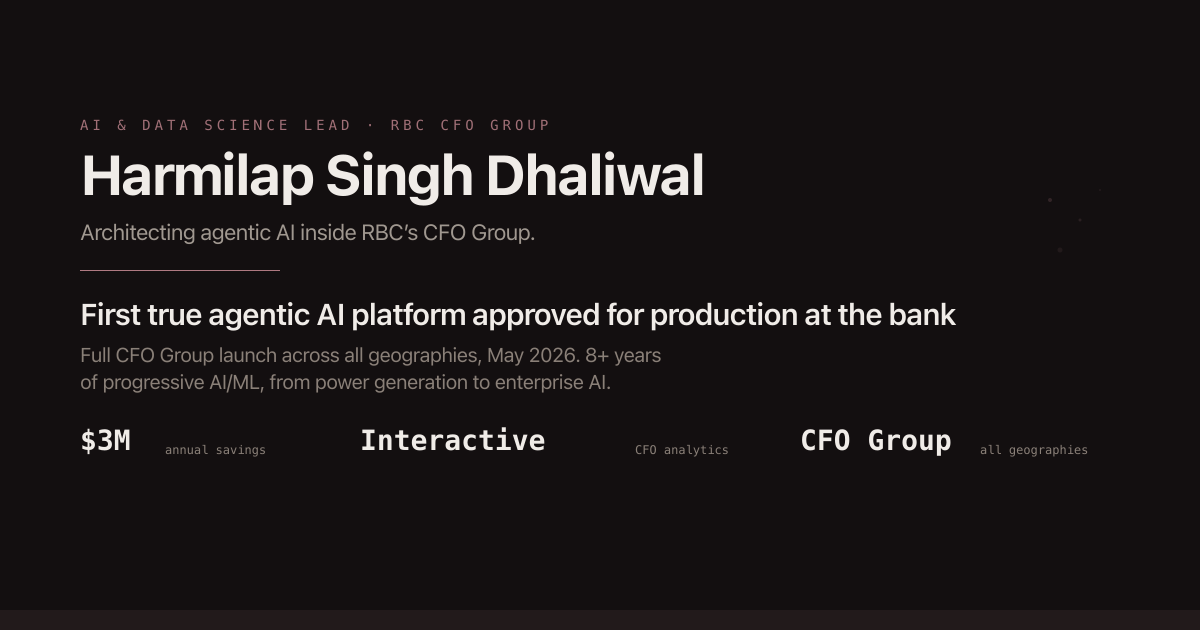
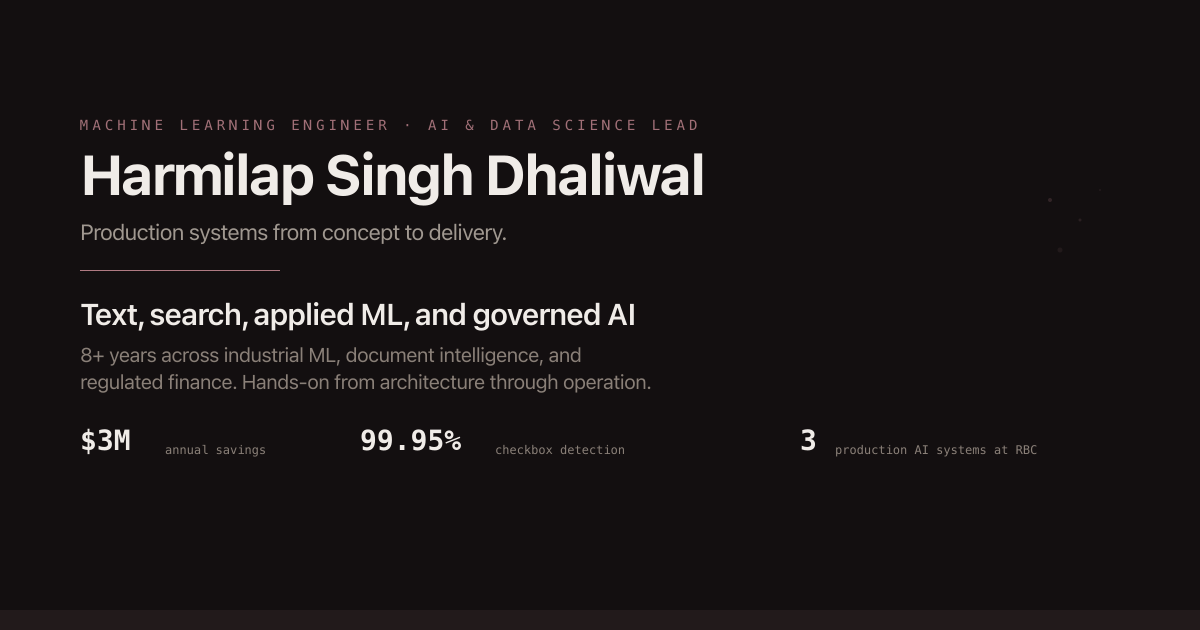
refactor(meta): reconcile metadata and machine-readable surfaces
Centralizes site identity in data/site.ts and reconciles sitemap,
manifest, feed, capabilities, llms.txt, and the social preview against
it.

diff --git a/app/capabilities.json/route.ts b/app/capabilities.json/route.ts
@@ -1,11 +1,16 @@
 import { PROJECTS } from '@/data/projects';
 import { CASE_STUDIES } from '@/data/projectCaseStudies';
+import {
+  PRODUCTION_SYSTEMS_COUNT,
+  PUBLIC_AS_OF_DATE,
+  YEARS_EXPERIENCE,
+} from '@/data/canonical';
+import { isPostSlugPublic } from '@/data/posts';
+import { PERSON_NAME, SITE_DESCRIPTION, SITE_URL } from '@/data/site';
 
 // Machine-readable capabilities manifest generated from the same typed data
 // as the human-facing case studies. Linked from public/llms.txt and <head>.
 export const dynamic = 'force-static';
-
-const SITE_URL = 'https://rogerthatroach.github.io';
 
 export function GET(): Response {
   const projects = PROJECTS.map((p) => {
@@ -17,40 +22,46 @@ export function GET(): Response {
       role: p.role,
       era: cs?.era,
       timeline: cs?.timeline,
-      status: cs?.status ?? 'shipped',
+      status: cs?.status ?? 'not-specified',
       stack: p.stack,
       metric: { value: p.heroMetric.value, label: p.heroMetric.label },
-      // problem/decision/impact come from the case study's TL;DR when present
-      // (one honest sentence each); otherwise the project caption stands in.
-      problem: cs?.tldr?.problem,
-      decision: cs?.tldr?.decision,
-      impact: cs?.tldr?.impact ?? p.caption,
+      problem: cs?.narrative.problem,
+      contribution: cs?.narrative.contribution,
+      decision: cs?.narrative.decision?.selectedApproach,
+      outcomeAndState: cs?.narrative.outcomeAndState ?? p.caption,
+      limits: cs?.narrative.limits,
       url: `${SITE_URL}/projects/${p.id}`,
-      deepDive: cs?.blogPostSlug ? `${SITE_URL}/blog/${cs.blogPostSlug}` : undefined,
+      deepDive: isPostSlugPublic(cs?.blogPostSlug)
+        ? `${SITE_URL}/blog/${cs?.blogPostSlug}`
+        : undefined,
     };
   });
 
-  // Current implementation taxonomy, kept alongside the project data so the
-  // manifest does not imply techniques that the production systems did not use.
   const approachTaxonomy = {
     modeling:
-      'TCS digital-twin work was regression (84 models); Humana was classification; FinancialBenchmarking is NL→SQL extraction + ranking; WorkforceAnalytics / AI/LLM Drafting Platform / BRIEFING_PROTOTYPE are LLM pipelines; Commodity Tax was process automation. Task type is matched to the problem, not assumed.',
+      'Combustion Tuning used 84 regression models and bounded optimization. Document Intelligence used OCR, computer vision, and a Random Forest for checkbox detection. Financial peer benchmarking uses a guarded text-to-SQL path. Commodity Tax is deterministic process automation. The AI/LLM workforce analytics and drafting platforms use models only inside declared workflow boundaries.',
     retrieval:
-      'AI/LLM Drafting Platform uses LLM-assisted routing to select a scoped field group, followed by dense semantic retrieval within that scope. WorkforceAnalytics uses model-assisted intent routing around a deterministic compute path. Neither production path is presented as BM25, sparse, hybrid, or RRF.',
-    fineTuning:
-      'In regulated-finance production the work is consuming foundation-model API endpoints; fine-tuning was out of scope by policy, not framed as a deliberate technical choice.',
+      'The AI/LLM drafting platform routes requests to a configured field group before dense semantic retrieval within that scope. The AI/LLM workforce analytics platform uses model-assisted intent routing around code-owned entitlement, data access, and calculation. No shipped sparse, hybrid, or reciprocal-rank-fusion path is claimed.',
+    modelAdaptation:
+      'The regulated-finance systems consume approved foundation-model endpoints. No fine-tuning work is claimed.',
     evaluation:
-      'RAG/LLM evaluation combines LLM-as-judge with extensive human testing, feeding evidence into Model Risk review. The systems use bespoke logging and monitoring rather than third-party evaluation libraries.',
-    dataBoundary:
-      'In WorkforceAnalytics, scoped model stages handle gate, metadata extraction, answer shaping, and synthesis; a separate deterministic path owns entitlement resolution, data access, and calculation. Typed contracts, access controls, validation, logging, tests, and monitoring constrain the boundary; configuration and integration errors remain residual risks.',
+      'Model-assisted systems use LLM-as-judge alongside extensive human testing, with evidence prepared for Model Risk review. Bespoke tracing and logging support investigation; scores do not replace accountable review.',
+    responsibilityBoundaries:
+      'Model-mediated interpretation and drafting are separated from deterministic calculation, authorization, reviewed query construction, and human action. The exact boundary differs by system and remains subject to configuration, testing, monitoring, and review.',
   };
 
   const manifest = {
-    name: 'Harmilap Singh Dhaliwal',
-    title: 'AI/ML Engineering Lead — production AI in regulated finance',
+    name: PERSON_NAME,
+    title: 'Machine learning engineer and AI/data science lead',
     url: SITE_URL,
-    summary:
-      '8+ years in AI/ML — industrial digital twins → cloud document intelligence → financial NL→SQL and agentic AI in regulated finance. Three production AI systems at a major Canadian bank; approximately 1.5 years focused on agentic and LLM systems.',
+    summary: SITE_DESCRIPTION,
+    experience: {
+      asOf: PUBLIC_AS_OF_DATE,
+      aiAndMachineLearning: `${YEARS_EXPERIENCE} years`,
+      regulatedFinanceProductionAi: '~4 years',
+      agenticAndLlmSystems: '18 months',
+      productionAiSystemsAtRbc: PRODUCTION_SYSTEMS_COUNT,
+    },
     projects,
     approachTaxonomy,
     links: {

diff --git a/app/sitemap.ts b/app/sitemap.ts
@@ -1,12 +1,10 @@
 import type { MetadataRoute } from 'next';
 import { PROJECTS } from '@/data/projects';
 import { POSTS, isPostPublic } from '@/data/posts';
-import { PAPERS, isPaperPublic } from '@/data/papers';
+import { SITE_URL } from '@/data/site';
 
 // Next 16 requires force-static on metadata routes under output:'export'.
 export const dynamic = 'force-static';
-
-const SITE_URL = 'https://rogerthatroach.github.io';
 
 export default function sitemap(): MetadataRoute.Sitemap {
   const staticRoutes: MetadataRoute.Sitemap = [
@@ -18,15 +16,7 @@ export default function sitemap(): MetadataRoute.Sitemap {
     { url: `${SITE_URL}/resume`, changeFrequency: 'monthly', priority: 0.9 },
     { url: `${SITE_URL}/now`, changeFrequency: 'monthly', priority: 0.4 },
     { url: `${SITE_URL}/colophon`, changeFrequency: 'yearly', priority: 0.3 },
-    { url: `${SITE_URL}/papers`, changeFrequency: 'monthly', priority: 0.7 },
   ];
-
-  const paperRoutes: MetadataRoute.Sitemap = PAPERS.filter(isPaperPublic).map((p) => ({
-    url: `${SITE_URL}/papers/${p.slug}`,
-    lastModified: p.publishedAt ? new Date(p.publishedAt) : undefined,
-    changeFrequency: 'monthly' as const,
-    priority: 0.6,
-  }));
 
   const projectRoutes: MetadataRoute.Sitemap = PROJECTS.map((p) => ({
     url: `${SITE_URL}/projects/${p.id}`,
@@ -41,5 +31,5 @@ export default function sitemap(): MetadataRoute.Sitemap {
     priority: 0.7,
   }));
 
-  return [...staticRoutes, ...projectRoutes, ...postRoutes, ...paperRoutes];
+  return [...staticRoutes, ...projectRoutes, ...postRoutes];
 }

diff --git a/app/manifest.ts b/app/manifest.ts
@@ -1,4 +1,5 @@
 import type { MetadataRoute } from 'next';
+import { SITE_DESCRIPTION, SITE_TITLE } from '@/data/site';
 
 // Next 16 requires force-static on metadata routes under output:'export'.
 export const dynamic = 'force-static';
@@ -7,14 +8,13 @@ export const dynamic = 'force-static';
 // Android install prompts get a proper icon instead of a screenshot.
 export default function manifest(): MetadataRoute.Manifest {
   return {
-    name: 'Harmilap Singh Dhaliwal — AI & Data Science Lead',
+    name: SITE_TITLE,
     short_name: 'HSD',
-    description:
-      "AI & Data Science Lead. Production agentic AI for RBC's CFO Group, LLM analytics platforms, and the career arc behind them.",
+    description: SITE_DESCRIPTION,
     start_url: '/',
     display: 'standalone',
-    background_color: '#0c0a0a',
-    theme_color: '#0c0a0a',
+    background_color: '#f8f5f2',
+    theme_color: '#f8f5f2',
     icons: [
       { src: '/icon', sizes: '32x32', type: 'image/png' },
       { src: '/apple-icon', sizes: '180x180', type: 'image/png' },

diff --git a/app/feed.xml/route.ts b/app/feed.xml/route.ts
@@ -1,9 +1,8 @@
 import { POSTS, isPostPublic } from '@/data/posts';
+import { PERSON_NAME, SITE_URL } from '@/data/site';
 
 // RSS 2.0 feed for the blog, generated at build time (static export).
 export const dynamic = 'force-static';
-
-const SITE_URL = 'https://rogerthatroach.github.io';
 
 function esc(s: string): string {
   return s
@@ -33,7 +32,7 @@ export function GET(): Response {
   const xml = `<?xml version="1.0" encoding="UTF-8"?>
 <rss version="2.0" xmlns:atom="http://www.w3.org/2005/Atom">
   <channel>
-    <title>Harmilap Singh Dhaliwal — Writings</title>
+    <title>${PERSON_NAME} — Writings</title>
     <link>${SITE_URL}/blog</link>
     <atom:link href="${SITE_URL}/feed.xml" rel="self" type="application/rss+xml" />
     <description>Technical notes, decision guides, and builder stories about production AI/ML.</description>

diff --git a/data/site.ts b/data/site.ts
@@ -1,0 +1,9 @@
+import { YEARS_EXPERIENCE } from './canonical'
+
+export const SITE_URL = 'https://rogerthatroach.github.io'
+export const PERSON_NAME = 'Harmilap Singh Dhaliwal'
+export const CURRENT_ROLE = 'AI & Data Science Lead'
+export const SITE_TITLE = `${PERSON_NAME} — Production ML & AI Systems`
+export const SITE_DESCRIPTION =
+  `Machine learning engineer and AI/data science lead with ${YEARS_EXPERIENCE} years building production systems in industrial ML, document intelligence, finance, and agentic AI.`
+export const SOCIAL_IMAGE_PATH = '/og-image.png'

diff --git a/app/not-found.tsx b/app/not-found.tsx
@@ -25,7 +25,7 @@ export default function NotFound() {
         className="mx-auto flex min-h-[calc(100vh-160px)] max-w-content items-center px-6 py-28 md:px-16"
       >
         <div className="max-w-2xl">
-          <p className="font-mono text-[11px] uppercase tracking-widest text-text-tertiary">
+          <p className="font-mono text-xs uppercase tracking-widest text-text-tertiary">
             § 404
           </p>
 
